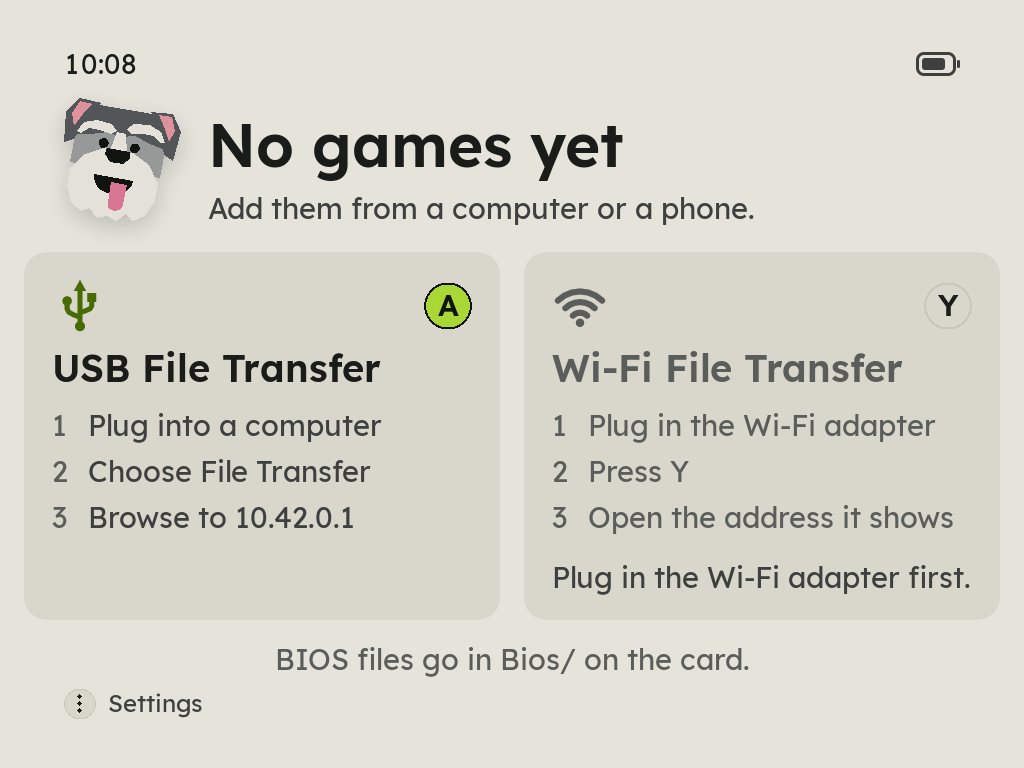
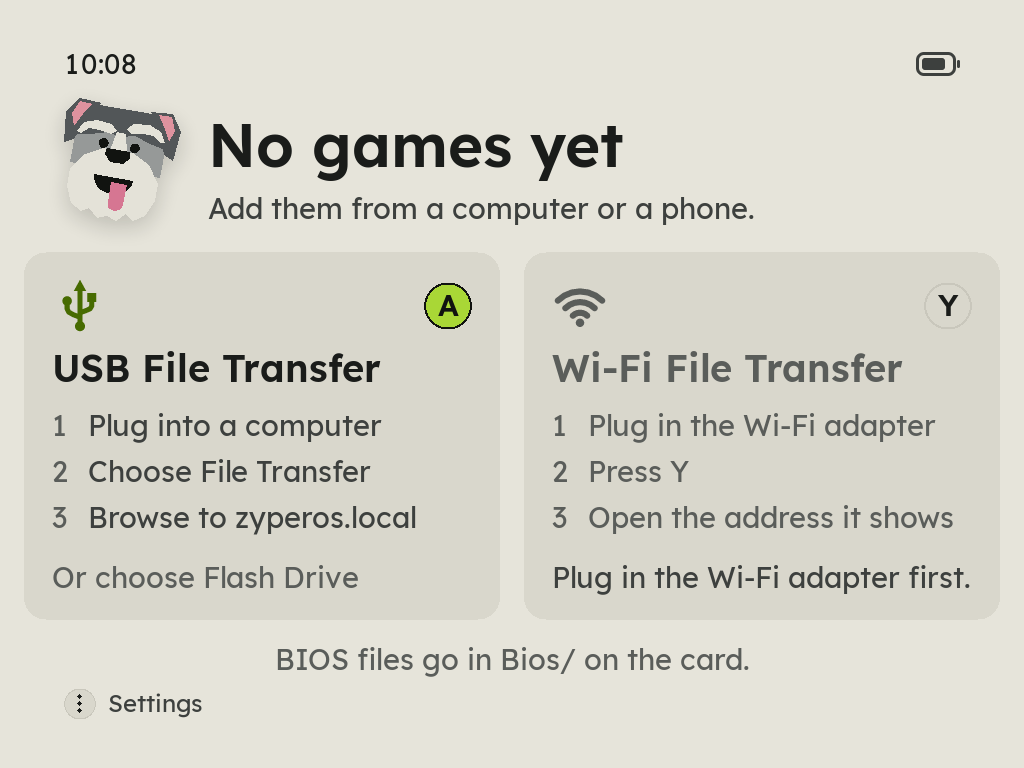
Blog: the guides for 1.0.5
- add-games: Flash Drive and a phone on the cable as ways in, Flash Drive
  among the computer's choices, EmulationStation folder names, folders of
  your own on the shelf and dragging onto a folder on the page, the eight
  folders with Menu Music, and the USB-A to USB-C cable that connects
  every time. empty.png taken again with tools/readme-shots.py on this
  main: USB File Transfer now says zyperos.local and Or choose Flash Drive.
- box-art: a phone's USB tethering in the first step and under No Wi-Fi
  adapter?, and covers an EmulationStation system left used as they are.
  The Scraper steps and scraper.png stay until the Scraper's redesign.
- gkd-pixel-2-wifi-adapter: No adapter? A phone on the cable (box art,
  achievements, System Update, PortMaster's install and the clock), and If
  Wi-Fi keeps dropping (power saving off, wifi.log in Download logs).
- retroachievements: tethering as a way online, unlocks dated when
  earned, and the list's count of waiting unlocks (cheevos-waiting.png).
- portmaster: tethering, and PortMaster won't start: Reinstall PortMaster,
  which keeps your ports.
- gkd-pixel-2-music-video: the Menu Music folder, ZyperOS Tracks, and
  Roms/BGM no longer playing.
- install-custom-firmware: the language the first start asks for, System
  Update over tethering, and zyperos-setup.txt on PX2BOOT if a first start
  stops.

Changed region(s): [[0.0625, 0.7188, 0.3438, 0.7812], [0.2188, 0.6562, 0.4062, 0.6875]]

diff --git a/site/blog/add-games-gkd-pixel-2.html b/site/blog/add-games-gkd-pixel-2.html
@@ -1,16 +1,16 @@
 title: How to Add Games to the GKD Pixel 2 (Wi-Fi or USB)
-description: Where games go on a GKD Pixel 2 card, which file types each system takes, and three ways to send them: the card reader, Wi-Fi, or the USB cable.
-summary: Folder names and file types, then three ways in: the card in a computer, Wi-Fi File Transfer and the USB cable.
+description: Where games go on a GKD Pixel 2 card, which file types each system takes, and the ways to send them: the card reader, Wi-Fi, the USB cable or a phone.
+summary: Folder names and file types, then the ways in: the card in a computer, Wi-Fi File Transfer, the USB cable, Flash Drive and a phone.
 crumb: Adding games
 topic: guide
 published: 2026-11-07
-updated: 2026-11-12
+updated: 2026-11-13
 image: portal
 image_alt: The File Transfer page on a computer, with an NES folder open and an upload going
 related: gkd-pixel-2-wifi-adapter, box-art-gkd-pixel-2, gkd-pixel-2-bios-files
 weight: 20
 ---
-<p>On ZyperOS, a game is a file in its console's folder on the microSD card. You can put it there three ways: with the card in a computer, over Wi-Fi from any browser, or over the USB cable with no Wi-Fi at all. This guide covers the folders first, then each way in.</p>
+<p>On ZyperOS, a game is a file in its console's folder on the microSD card. You can put it there with the card in a computer, over Wi-Fi from any browser, or over the USB cable with no Wi-Fi at all: from a computer's browser, with the card as a plain flash drive, or from an Android phone's own browser. This guide covers the folders first, then each way in.</p>
 
 <h2>The folders</h2>
 <p>At the first boot, ZyperOS turns the rest of the card into a partition named <strong>ZYPEROS</strong>, which a computer can read. Games go in <code>Roms/</code>, in a folder named after the console the way people say it:</p>
@@ -31,12 +31,17 @@ weight: 20
 </table>
 </div>
 <p>That is nine of the forty-four. <a href="https://github.com/tarikbc/ZyperOS#supported-systems">The README's table</a> lists every folder, its file types and the emulator that runs it. Spell the folder exactly: a game in a folder ZyperOS does not know, or a file type it does not take for that console, does not show up.</p>
+<p>Coming from Knulli, ROCKNIX, ArkOS or ROGUE OS? Their short folder names work as they are: <code>nds</code> is read as Nintendo DS, <code>psx</code> as PlayStation, <code>megadrive</code> as Genesis, and so on for every system. Copy their <code>roms</code> folders into <code>Roms/</code> unchanged, and the covers, video snaps and names their scrapers left show on the shelf too.</p>
 <p>Some systems need a BIOS file in <code>Bios/</code> as well, such as the PlayStation and the Dreamcast. <a href="/blog/gkd-pixel-2-bios-files/">The BIOS guide</a> lists each one.</p>
 <p>A console with nothing in its folder stays hidden on the home screen, so the home only shows what you can play.</p>
 
+<h3>Folders of your own</h3>
+<p>Inside a console's folder, make folders of your own, as deep as you like: <code>Roms/Game Boy Advance/Rom Hacks/Translations/</code>. The shelf shows them as you made them, folders first, each a pixel-art folder in the system's color with how many games it holds. <kbd>A</kbd> opens one and <kbd>B</kbd> goes back up. A folder that holds one game's discs is still that one game. On the File Transfer page, drag games onto a folder to move them into it.</p>
+<figure class="shot small"><img src="/img/folders.png" alt="The Game Boy Advance shelf: the folder Commercial Owned as a pixel folder with 4 on its label, 4 games under its name"><figcaption>A folder on the shelf, with how many games it holds.</figcaption></figure>
+
 <h2>A card with no games yet</h2>
 <p>A card with no games opens on <strong>No games yet</strong>, with the two ways to send them, one button each: <kbd>A</kbd> for USB File Transfer and <kbd>Y</kbd> for Wi-Fi File Transfer. The Pixel 2 has one USB-C port, and the cable and a Wi-Fi adapter both need it. So the way that cannot start now is dimmed, says why, and lights up when you plug in or unplug. When the first games arrive, the home shows them and Zyper cheers.</p>
-<figure class="shot small"><img src="/img/empty.png" alt="No games yet: USB File Transfer on A, Wi-Fi File Transfer on Y, dimmed until the Wi-Fi adapter is in"><figcaption>An empty card shows both ways in.</figcaption></figure>
+<figure class="shot small"><img src="/img/empty.png" alt="No games yet: USB File Transfer on A, with Flash Drive as the other choice, and Wi-Fi File Transfer on Y, dimmed until the Wi-Fi adapter is in"><figcaption>An empty card shows both ways in.</figcaption></figure>
 
 <h2>Way 1: the card in a computer</h2>
 <ol>
@@ -65,22 +70,36 @@ weight: 20
 <h2>Way 3: USB File Transfer</h2>
 <p>The same page, over the USB cable, with no Wi-Fi. It works with a Mac, Linux or Windows 11. Windows 10 has no driver for this kind of connection.</p>
 <ol>
-  <li>Plug the Pixel 2 into the computer. The port only charges until you say otherwise, so the handheld asks: <strong>Charge Only</strong> or <strong>File Transfer</strong>. Choose File Transfer.</li>
+  <li>Plug the Pixel 2 into the computer. The port only charges until you say otherwise, so the handheld asks: <strong>Charge Only</strong>, <strong>File Transfer</strong> or <strong>Flash Drive</strong>. Choose File Transfer.</li>
   <li>Open <code>http://zyperos.local</code> in a browser on that computer, or <code>http://10.42.0.1</code>, and type the PIN from the screen.</li>
   <li>Drag games into their console's folders.</li>
 </ol>
 <figure class="shot small"><img src="/img/usb-ask.png" alt="Computer Connected: Charge Only, File Transfer or Developer (SSH)"><figcaption>A computer on the cable gets a question first. A wall charger never does.</figcaption></figure>
 <figure class="shot small"><img src="/img/usb-steps.png" alt="USB File Transfer when the computer takes no address: Address waiting, and a hint to check Network adapters in Device Manager"><figcaption>When a step waits too long, the handheld says what to check.</figcaption></figure>
 <p>If the page does not open, look at the handheld. It shows a bar while the computer connects, then the address and the PIN, and under them where the connection is. When a step before the browser waits too long, it shows three steps, <strong>Cable</strong> (the computer took the handheld and opened its network), <strong>Address</strong> (the computer took <code>10.42.0.2</code>) and <strong>Browser</strong>, with a hint under the one that waits: try another cable or port, or check Device Manager on Windows. If the browser still does not get there, turn off a VPN or proxy that sends the address somewhere else.</p>
+<p class="note">The cable that connects every time is a USB-A to USB-C cable, with USB-A at the computer. On a USB-C to USB-C cable, the two ports settle which side gives power at each plug, and some computers' USB-C ports never connect that way. If the handheld says your computer didn't connect, unplug the cable and plug it back in, or use that cable; a computer with only USB-C ports can use it through a USB-C to USB-A adapter or a hub.</p>
 <p>While USB File Transfer is open, the computer can also open a shell on the handheld with <code>ssh root@10.42.0.1</code>, the PIN as the password. To copy with <code>scp</code>, add its <code>-O</code> flag, because the handheld has no SFTP server: <code>scp -O game.zip root@10.42.0.1:/roms/SNES/</code>.</p>
 
+<h2>Way 4: Flash Drive</h2>
+<p>No browser and no driver: choose <strong>Flash Drive</strong> when the handheld asks about the computer, and the card becomes a plain flash drive that any computer opens, Windows 10 included. ZyperOS steps aside, and its screen shows how much the computer copies to the card and reads from it. Copy games into <code>Roms/</code> as you would with the card in a reader, then eject the drive on the computer, or pull the cable. The card is checked if it needs it, and ZyperOS comes back where it was.</p>
+
+<h2>Way 5: a phone on the cable</h2>
+<p>On the Pixel 2, an Android phone with USB tethering opens USB File Transfer over a USB-C to USB-C cable, with no adapter and no Wi-Fi:</p>
+<ol>
+  <li>Plug the phone into the handheld. When it asks <strong>What did you plug in?</strong>, choose <strong>Phone</strong>. The handheld powers the phone and asks you to turn on USB tethering.</li>
+  <li>On the phone, turn on <strong>USB tethering</strong> (Settings, then Hotspot and tethering).</li>
+  <li>USB File Transfer opens by itself, with the address the phone gave the handheld and a PIN. Open that address in the phone's browser, and type the PIN.</li>
+</ol>
+<p>While tethering is on, the handheld also has the phone's internet, for box art, achievements and System Update (<a href="/blog/gkd-pixel-2-wifi-adapter/#no-adapter-a-phone-on-the-cable">more on that</a>). An iPhone shares its network over USB only with a computer it trusts, and some Android devices have no USB tethering. With those, use Wi-Fi File Transfer, or Flash Drive with a USB-C to USB-A adapter on the phone and a USB-A to USB-C cable.</p>
+
 <h2>The File Transfer page</h2>
-<p>Wi-Fi File Transfer, the handheld's own network and USB File Transfer all open the same page. It shows the card's seven folders: ROMs, Music, Audiobooks, Videos, BIOS, Saves and Save States, each console's folder with its own pixel art.</p>
+<p>Wi-Fi File Transfer, the handheld's own network and USB File Transfer all open the same page. It shows the card's eight folders: ROMs, Music, Audiobooks, Videos, Menu Music, BIOS, Saves and Save States, each console's folder with its own pixel art.</p>
 <figure class="shot browser"><img src="/img/portal.png" alt="The File Transfer page on a computer: the card's folders down the left with their pixel art, an NES folder open, and an upload under the folders with the time left"><figcaption>On a computer: the folders on the left, an upload under them.</figcaption></figure>
 <ul>
   <li><strong>Upload</strong> by dropping files anywhere on the page, or onto a folder's row. A dropped folder keeps the folders inside it.</li>
   <li><strong>Free space</strong> shows under the folders. Files that do not fit are caught before anything is sent.</li>
-  <li><strong>Each file has a ⋯ menu</strong> for Download, Rename and Delete. Delete always asks first.</li>
+  <li><strong>Drag to move</strong>: drag a file or a folder onto a folder's row and it moves there on the card. On a phone, hold a row still for a moment to lift it.</li>
+  <li><strong>Each file has a ⋯ menu</strong> for Download, Rename and Delete. Delete always asks first. <strong>New folder</strong> makes one.</li>
   <li><strong>On a phone</strong> the folders are a row of chips and Upload is a button under your thumb.</li>
 </ul>
 
@@ -89,13 +108,13 @@ weight: 20
 
 <h2>My games do not show up</h2>
 <ul>
-  <li>Check the folder name against <a href="https://github.com/tarikbc/ZyperOS#supported-systems">the table</a>, spelled exactly, and the file type.</li>
+  <li>Check the folder name against <a href="https://github.com/tarikbc/ZyperOS#supported-systems">the table</a>, spelled exactly, or an EmulationStation name such as <code>gba</code>, and the file type.</li>
   <li>Games sent with File Transfer show up when you leave its screen. Games copied any other way while the handheld is on show up after <strong>Rescan Folder</strong> in that console's menu, or after a restart.</li>
   <li>Arcade and Neo Geo games are ROM sets: keep each <code>.zip</code> whole and named the way FinalBurn Neo names it, and put <code>neogeo.zip</code> in <code>Bios/</code> for Neo Geo games.</li>
 </ul>
 
 <h2>Sources</h2>
 <ol class="sources">
-  <li><a href="https://github.com/tarikbc/ZyperOS#supported-systems">ZyperOS README, Supported systems</a> and <a href="https://github.com/tarikbc/ZyperOS#install">Install</a>: folders, file types, Wi-Fi and USB File Transfer, the File Transfer page, the FAQ.</li>
+  <li><a href="https://github.com/tarikbc/ZyperOS#supported-systems">ZyperOS README, Supported systems</a>, <a href="https://github.com/tarikbc/ZyperOS#coming-from-emulationstation">Coming from EmulationStation</a> and <a href="https://github.com/tarikbc/ZyperOS#install">Install</a>: folders, file types, Wi-Fi and USB File Transfer, Flash Drive, a phone on the cable, the File Transfer page, the FAQ.</li>
   <li><a href="https://github.com/tarikbc/ZyperOS/blob/main/docs/guide.md#file-transfer">The ZyperOS user guide, File transfer</a>: the PIN, SSH over the cable, plugging into a computer.</li>
 </ol>

diff --git a/site/blog/gkd-pixel-2-wifi-adapter.html b/site/blog/gkd-pixel-2-wifi-adapter.html
@@ -4,7 +4,7 @@ summary: The Pixel 2 has no Wi-Fi. A Realtek USB adapter in the USB-C port adds 
 crumb: Wi-Fi adapter
 topic: guide
 published: 2026-11-07
-updated: 2026-11-07
+updated: 2026-11-13
 image: hotspot
 image_alt: Wi-Fi File Transfer as the handheld's own network: a QR code, the network's name, its password and the PIN
 related: add-games-gkd-pixel-2, box-art-gkd-pixel-2, retroachievements-gkd-pixel-2
@@ -17,6 +17,7 @@ weight: 25
   <li><strong>Get a TP-Link TL-WN725N</strong>, hardware version 2 or 3. Its chip is the Realtek RTL8188EUS. It is the adapter ZyperOS is tested with, and the only kind that can also make the handheld's own network.</li>
   <li><strong>Add a small USB-A to USB-C adapter</strong>, since the TL-WN725N has a USB-A plug and the Pixel 2 has a USB-C port.</li>
   <li><strong>It is 2.4 GHz only</strong>, 802.11n up to 150 Mbps. That is plenty for covers, achievements and moving games.</li>
+  <li><strong>No adapter?</strong> An Android phone with USB tethering, on the USB cable, gives the handheld the phone's internet instead (<a href="#no-adapter-a-phone-on-the-cable">below</a>).</li>
 </ul>
 
 <h2>Why the chip matters</h2>
@@ -41,7 +42,7 @@ weight: 25
   <li>ZyperOS loads its driver when it is plugged in. The Wi-Fi rows appear in MENU: Wi-Fi, Achievements and Wi-Fi File Transfer.</li>
   <li>Open <strong>MENU &gt; Wi-Fi</strong>, pick your network and type its password. The handheld remembers it, on the card, and joins it again next time.</li>
 </ol>
-<p>Each time Wi-Fi connects, ZyperOS sets the clock from the network. Without an adapter, set the time once in <strong>MENU &gt; Date &amp; Time</strong>.</p>
+<p>Each time Wi-Fi connects, ZyperOS sets the clock from the network, and a phone's USB tethering sets it too. With neither, set the time once in <strong>MENU &gt; Date &amp; Time</strong>.</p>
 
 <h2>One port, two jobs</h2>
 <p>The Pixel 2 has one USB-C port, and it is also where it charges and where a computer connects. So while the Wi-Fi adapter is in, the port is not free for a charger or a computer, and USB File Transfer waits for the cable. ZyperOS shows this plainly: on a card with no games, the way that cannot start now is dimmed and says why, and it lights up when you plug in or unplug.</p>
@@ -55,6 +56,18 @@ weight: 25
   <li><strong>Album Art</strong> for MP4, and the clock set from the network.</li>
 </ul>
 
+<h2>No adapter? A phone on the cable</h2>
+<p>An Android phone with USB tethering gives the handheld the phone's internet over a USB-C to USB-C cable, with no adapter at all:</p>
+<ol>
+  <li>Plug the phone into the Pixel 2. When it asks <strong>What did you plug in?</strong>, choose <strong>Phone</strong>. The handheld powers the phone and asks you to turn on USB tethering.</li>
+  <li>On the phone, turn on <strong>USB tethering</strong> (Settings, then Hotspot and tethering). USB File Transfer opens by itself, for the phone's own browser.</li>
+</ol>
+<p>While tethering is on, the handheld uses the phone's internet as it would Wi-Fi: <a href="/blog/box-art-gkd-pixel-2/">box art</a>, <a href="/blog/retroachievements-gkd-pixel-2/">achievements</a>, System Update and <a href="/blog/portmaster-gkd-pixel-2/">PortMaster's install</a> work over it, and it sets the clock. Close File Transfer with <kbd>B</kbd> and the phone stays connected. The phone may be on mobile data, so nothing large starts by itself: a System Update download cut short waits for you to press <kbd>A</kbd>.</p>
+<p>An iPhone shares its network over USB only with a computer it trusts, which the handheld can't be, and some Android devices have no USB tethering at all. With those, the handheld needs the Wi-Fi adapter to get online.</p>
+
+<h2>If Wi-Fi keeps dropping</h2>
+<p>The TL-WN725N's chip is known to drop off some home routers again and again while its power saving is on, so ZyperOS turns its power saving off whenever it is on a network. If a network still drops, the handheld writes down why: each join and each drop, with the reason the network or the adapter gave, goes in <code>wifi.log</code>. On the File Transfer page, <strong>Download logs</strong> (under the folders, behind the ⋯ on a phone) packs it with the other logs, ready to send with a bug report. Network names are masked in it.</p>
+
 <h2>The handheld's own network</h2>
 <p>With the TL-WN725N in and no network joined, <strong>MENU &gt; Wi-Fi File Transfer</strong> makes the handheld a Wi-Fi network for as long as its screen is open. It shows a QR code, the network's name and password, and the PIN. Your phone joins by the code, and the transfer page opens by itself.</p>
 <figure class="shot small"><img src="/img/hotspot.png" alt="Wi-Fi File Transfer as the handheld's own network: a QR code, the network's name ZyperOS-7A2B, its password and the PIN"><figcaption>No network around: the handheld makes its own.</figcaption></figure>
@@ -62,7 +75,7 @@ weight: 25
 
 <h2>Sources</h2>
 <ol class="sources">
-  <li><a href="https://github.com/tarikbc/ZyperOS#install">ZyperOS README, Install</a> and <a href="https://github.com/tarikbc/ZyperOS/blob/main/docs/guide.md#wi-fi-file-transfer-with-no-network">the user guide, Wi-Fi File Transfer with no network</a>: the adapter, the shared port, the hotspot.</li>
+  <li><a href="https://github.com/tarikbc/ZyperOS#install">ZyperOS README, Install</a>, <a href="https://github.com/tarikbc/ZyperOS#from-a-phone-on-the-usb-cable">From a phone on the USB cable</a> and <a href="https://github.com/tarikbc/ZyperOS#faq">the FAQ on sending the logs</a>, and <a href="https://github.com/tarikbc/ZyperOS/blob/main/docs/guide.md#wi-fi-file-transfer-with-no-network">the user guide, Wi-Fi File Transfer with no network</a>: the adapter, the shared port, the hotspot.</li>
   <li>plastron at <a href="https://github.com/tarikbc/ZyperOS/tree/04f83e1/plastron">04f83e1</a>: <code>buildroot/board/px2/linux.config</code> (rtl8xxxu on, rtw88 off), <code>buildroot/board/zyperos/rootfs-overlay/etc/modprobe.d/rtl8188eu.conf</code> (RTL8188EU adapters to Realtek's 8188eu, for the access point).</li>
   <li>Linux kernel, <a href="https://github.com/torvalds/linux/blob/d48723711bae9b8cdc56719c448ba42fef28cbee/drivers/net/wireless/realtek/rtl8xxxu/Kconfig">rtl8xxxu's Kconfig</a> and <a href="https://github.com/torvalds/linux/blob/d48723711bae9b8cdc56719c448ba42fef28cbee/drivers/net/wireless/realtek/rtl8xxxu/core.c#L8015-L8106">its tested device table</a> and <a href="https://github.com/torvalds/linux/blob/d48723711bae9b8cdc56719c448ba42fef28cbee/drivers/net/wireless/realtek/rtw88/Kconfig">rtw88's Kconfig</a>: which chips each driver covers.</li>
   <li>TP-Link: <a href="https://www.tp-link.com/us/home-networking/adapter/tl-wn725n/">the TL-WN725N's specifications</a> (2.4 GHz, up to 150 Mbps) and <a href="https://www.tp-link.com/us/support/download/tl-wn725n/">its support page</a> (hardware versions and their drivers), read 7 November 2026.</li>

diff --git a/site/blog/install-custom-firmware-gkd-pixel-2.html b/site/blog/install-custom-firmware-gkd-pixel-2.html
@@ -4,7 +4,7 @@ summary: Back up the stock card, write an image to a microSD card, and the first
 crumb: Installing custom firmware
 topic: guide
 published: 2026-11-07
-updated: 2026-11-07
+updated: 2026-11-13
 image: tour-home
 image_alt: ZyperOS's first start asks for the home screen: Spotlight or Gallery
 related: best-custom-firmware-gkd-pixel-2, add-games-gkd-pixel-2, gkd-pixel-2-wifi-adapter
@@ -54,7 +54,7 @@ weight: 10
 <table>
   <thead><tr><th scope="col">System</th><th scope="col">On the first boot</th><th scope="col">The games space</th></tr></thead>
   <tbody>
-    <tr><th scope="row" class="us">ZyperOS</th><td class="us">Turns the rest of the card into ZYPEROS in about a minute, then starts the tutorial</td><td class="us">exFAT: a Mac or PC reads it</td></tr>
+    <tr><th scope="row" class="us">ZyperOS</th><td class="us">Turns the rest of the card into ZYPEROS in about a minute, then asks for your language and starts the tutorial</td><td class="us">exFAT: a Mac or PC reads it</td></tr>
     <tr><th scope="row">ROCKNIX</th><td>Runs its install process, then reboots</td><td>ext4 over the whole card: Windows and macOS do not see it</td></tr>
     <tr><th scope="row">TortOS</th><td>Turns the rest of the card into TORTOS</td><td>exFAT: a Mac or PC reads it</td></tr>
     <tr><th scope="row">plumOS Pixel2</th><td>Makes its PLUMOS_USER volume and may restart once. Do not cut the power, and add games only after it</td><td>FAT32: a Mac or PC reads it</td></tr>
@@ -71,11 +71,12 @@ weight: 10
 <ol>
   <li>Download ZyperOS Installer for your computer from <a href="https://github.com/tarikbc/ZyperOS/releases/latest">the latest release</a>.</li>
   <li>Put the microSD card in the computer, then pick the GKD Pixel 2, the latest release and the card. Choose <strong>Fresh install</strong>, which erases the card. Or write the card image with any program that writes disk images, like Raspberry Pi Imager.</li>
-  <li>Put the card in the Pixel 2 and turn it on. The first start sets the card up in about a minute. Then Zyper teaches the buttons and asks four things: the theme, the home screen, the button sounds and the menu music.</li>
-  <li>Set your time zone in <strong>MENU &gt; Date &amp; Time</strong>. Without Wi-Fi, set the time there too, and it keeps it.</li>
+  <li>Put the card in the Pixel 2 and turn it on. The first start sets the card up in about a minute, then asks for your language: Zyper says hello in each of the eight until you pick yours. Then he teaches the buttons and asks four things: the theme, the home screen, the button sounds and the menu music.</li>
+  <li>Set your time zone in <strong>MENU &gt; Date &amp; Time</strong>. Wi-Fi, or an Android phone's USB tethering, sets the time when it connects; without either, set the time there too, and it keeps it.</li>
 </ol>
+<p class="note">If the first start ever stops partway, the card has a record of what it did: put it in a computer and open <code>zyperos-setup.txt</code> on its PX2BOOT drive. After the handheld restarts by itself, the system's own report of what went wrong is there too. Send it to me in <a href="https://github.com/tarikbc/ZyperOS/issues">an issue</a>.</p>
 <figure class="shot small"><img src="/img/tour-theme.png" alt="ZyperOS's first start asks: Light or dark? The home screen shown in both themes"><figcaption>The first start asks for the theme, the home screen, the sounds and the music.</figcaption></figure>
-<p>ZyperOS Installer's <strong>Update</strong> puts a new version on a card that already has ZyperOS and keeps its games, music and saves. On the handheld, System Update brings new versions over Wi-Fi, or over the USB cable from the File Transfer page. To build the card image yourself instead, <a href="https://github.com/tarikbc/ZyperOS/blob/main/docs/building.md">docs/building.md</a> explains how.</p>
+<p>ZyperOS Installer's <strong>Update</strong> puts a new version on a card that already has ZyperOS and keeps its games, music and saves. On the handheld, System Update brings new versions over Wi-Fi or an Android phone's USB tethering, or over the USB cable from the File Transfer page. To build the card image yourself instead, <a href="https://github.com/tarikbc/ZyperOS/blob/main/docs/building.md">docs/building.md</a> explains how.</p>
 
 <h2>Going back</h2>
 <p>Turn the Pixel 2 off and put another card in. The handheld starts whatever system is on the card, so the stock card brings the stock firmware back, unchanged. Everything a system keeps, Wi-Fi passwords included, is on its own card: wipe a card before you give it away.</p>

diff --git a/site/blog/retroachievements-gkd-pixel-2.html b/site/blog/retroachievements-gkd-pixel-2.html
@@ -4,7 +4,7 @@ summary: Sign in on the handheld, play offline after the first start, and see ba
 crumb: RetroAchievements
 topic: guide
 published: 2026-11-07
-updated: 2026-11-07
+updated: 2026-11-13
 image: cheevos
 image_alt: A game's achievements list in ZyperOS, with badges, points and a progress count
 related: gkd-pixel-2-wifi-adapter, box-art-gkd-pixel-2, best-custom-firmware-gkd-pixel-2
@@ -15,21 +15,23 @@ weight: 40
 <h2>What you need</h2>
 <ul>
   <li><strong>A free RetroAchievements account</strong>, made at <a href="https://retroachievements.org">retroachievements.org</a>.</li>
-  <li><strong>A USB Wi-Fi adapter</strong> for the sign-in and for each game's first start. The Pixel 2 has no Wi-Fi of its own; <a href="/blog/gkd-pixel-2-wifi-adapter/">the Wi-Fi guide</a> says which adapters work.</li>
+  <li><strong>A way online</strong> for the sign-in and for each game's first start: a USB Wi-Fi adapter, or an Android phone's USB tethering on the cable. The Pixel 2 has no Wi-Fi of its own; <a href="/blog/gkd-pixel-2-wifi-adapter/">the Wi-Fi guide</a> says which adapters work, and how to use a phone instead.</li>
   <li><strong>A game RetroAchievements knows.</strong> It identifies a game by a checksum of the ROM, so a clean dump of a common release is what it has sets for. A hack or a fan translation often has no set.</li>
 </ul>
 
 <h2>Sign in</h2>
 <ol>
-  <li>Plug in the Wi-Fi adapter and join a network in <strong>MENU &gt; Wi-Fi</strong>.</li>
+  <li>Plug in the Wi-Fi adapter and join a network in <strong>MENU &gt; Wi-Fi</strong>. Or plug in an Android phone, choose <strong>Phone</strong> and turn on its USB tethering.</li>
   <li>Open <strong>MENU &gt; Achievements</strong>. The row says <code>sign in</code>.</li>
   <li>Type your user name and password with the on-screen keyboard.</li>
 </ol>
-<p>The row then shows your account. The Achievements row only appears while the Wi-Fi adapter is in, since signing in needs the network.</p>
+<p>The row then shows your account. The Achievements row only appears while the Wi-Fi adapter is in or a phone's USB tethering is on, since signing in needs the network.</p>
 
 <h2>Play</h2>
 <p>Start a game as usual. The first time a game starts, the handheld needs Wi-Fi to identify it and download its achievements. ZyperOS keeps them on the card, beside the box art, so from then on the game has its achievements with or without Wi-Fi.</p>
-<p>What you unlock without Wi-Fi waits on the card, and reaches your account the next time the handheld connects. If the account already has an achievement, that is no error: ZyperOS counts it as settled.</p>
+<p>What you unlock without Wi-Fi pops up at once, as usual, and waits on the card. The next time the handheld is online, on the shelf, the waiting unlocks go to your account by themselves, and Zyper says how many went. Each one is dated when you earned it, not when it was sent, up to 14 days back, the most RetroAchievements takes. If the account already has an achievement, that is no error: ZyperOS counts it as settled.</p>
+<p>While some wait, the game's list says how many under its name, and an achievement opened with <kbd>A</kbd> says it is earned and not sent yet.</p>
+<figure class="shot"><img src="/img/cheevos-waiting.png" alt="A game's achievements list, its heading saying 3 / 36 and 2 waiting to send: two achievements earned offline, not sent yet"><figcaption>Earned offline: the list says how many wait to be sent.</figcaption></figure>
 <p>ZyperOS sends unlocks as softcore achievements. It has no hardcore mode.</p>
 
 <h2>Badges, pop-ups and the list</h2>
@@ -46,7 +48,7 @@ weight: 40
 <h2>If an achievement does not unlock</h2>
 <ul>
   <li><strong>Check the sign-in</strong> in MENU &gt; Achievements.</li>
-  <li><strong>Check the first start had Wi-Fi.</strong> Without it, ZyperOS cannot identify the game. Start it once with the adapter in.</li>
+  <li><strong>Check the first start was online.</strong> Without it, ZyperOS cannot identify the game, and its Achievements row says <code>not checked yet</code>. Start it once with the adapter in, or with a phone's USB tethering on.</li>
   <li><strong>Check the dump.</strong> A ROM with a different checksum is a game RetroAchievements has never seen. A zip is checked on its largest file, which is the one ZyperOS runs.</li>
 </ul>
 

diff --git a/site/blog/box-art-gkd-pixel-2.html b/site/blog/box-art-gkd-pixel-2.html
@@ -4,7 +4,7 @@ summary: Covers from libretro, ScreenScraper and SteamGridDB, fetched on the han
 crumb: Box art and video previews
 topic: guide
 published: 2026-11-07
-updated: 2026-11-07
+updated: 2026-11-13
 image: scraper
 image_alt: MENU > Scraper in ZyperOS, with Fetch Missing Art, Video Snaps and the covers each source found
 related: retroachievements-gkd-pixel-2, add-games-gkd-pixel-2, gkd-pixel-2-wifi-adapter
@@ -14,7 +14,7 @@ weight: 30
 
 <h2>The short answer</h2>
 <ol>
-  <li>Plug in a USB Wi-Fi adapter and join a network.</li>
+  <li>Get the handheld online: plug in a USB Wi-Fi adapter and join a network, or plug in an Android phone, choose <strong>Phone</strong> and turn on its USB tethering.</li>
   <li>Open <strong>MENU &gt; Scraper</strong> and choose <strong>Fetch Missing Art</strong>.</li>
   <li>Wait for the count to finish. <kbd>B</kbd> stops it at any time. The shelf has the covers when you leave the screen.</li>
 </ol>
@@ -65,10 +65,13 @@ weight: 30
 
 <h2>Covers that went missing after a transfer</h2>
 <p>A console's folder sent with the File Transfer page arrives without its covers, because a browser leaves the hidden <code>.media</code> folder behind. Send the covers on their own: drop the PNG files into the console's <code>.media</code> folder on the page, or drag the <code>.media</code> folder itself onto the console's folder. On a Mac, Cmd-Shift-. shows hidden folders in Finder.</p>
-<p>No Wi-Fi adapter? Over the USB cable, the File Transfer page's Settings can fetch missing box art with the computer's own internet, and the handheld matches each cover to its game.</p>
+<p>No Wi-Fi adapter? Plug in an Android phone, choose <strong>Phone</strong> and turn on its USB tethering: MENU &gt; Scraper, Box Art and a game's Cover and Video then use the phone's internet, as over Wi-Fi (<a href="/blog/gkd-pixel-2-wifi-adapter/#no-adapter-a-phone-on-the-cable">a phone on the cable</a>). Or, over the USB cable from a computer, the File Transfer page's Settings can fetch missing box art with the computer's own internet, and the handheld matches each cover to its game.</p>
+
+<h2>Covers from an EmulationStation system</h2>
+<p>Coming from Knulli, ROCKNIX, ArkOS or ROGUE OS? Copy their <code>roms</code> folders into <code>Roms/</code> as they are. The covers, video snaps, names and details their scrapers left (<code>gamelist.xml</code>, <code>images/</code>, <code>videos/</code>, <code>media/</code>) show on the shelf as they are, with no new scrape. A cover ZyperOS fetched or you picked comes first, and Fetch Missing Art only fetches for games with no cover at all.</p>
 
 <h2>Sources</h2>
 <ol class="sources">
-  <li><a href="https://github.com/tarikbc/ZyperOS#faq">ZyperOS README, FAQ: A game has no box art</a>, and <a href="https://github.com/tarikbc/ZyperOS#the-file-transfer-page">The File Transfer page</a>.</li>
+  <li><a href="https://github.com/tarikbc/ZyperOS#faq">ZyperOS README, FAQ: A game has no box art</a>, <a href="https://github.com/tarikbc/ZyperOS#the-file-transfer-page">The File Transfer page</a>, <a href="https://github.com/tarikbc/ZyperOS#from-a-phone-on-the-usb-cable">From a phone on the USB cable</a> and <a href="https://github.com/tarikbc/ZyperOS#coming-from-emulationstation">Coming from EmulationStation</a>.</li>
   <li><a href="https://github.com/tarikbc/ZyperOS/blob/main/docs/guide.md#scraper">The ZyperOS user guide, Scraper</a> and <a href="https://github.com/tarikbc/ZyperOS/blob/main/docs/guide.md#the-shelf">The shelf</a>: the sources' order, video snaps, checksum matching, covers added by hand.</li>
 </ol>

diff --git a/site/blog/gkd-pixel-2-music-video.html b/site/blog/gkd-pixel-2-music-video.html
@@ -4,7 +4,7 @@ summary: Which video formats play smoothly on its four cores, and how to add alb
 crumb: Music and video
 topic: guide
 published: 2026-11-07
-updated: 2026-11-09
+updated: 2026-11-13
 image: mp4
 image_alt: MP4's shelf of album covers in ZyperOS
 related: add-games-gkd-pixel-2, gkd-pixel-2-battery-charge-limit, gkd-pixel-2-bios-files
@@ -67,6 +67,11 @@ weight: 75
 <p>The Pixel 2 has one speaker, so out of it the sound is mono, both channels mixed, and headphones get stereo. <strong>MENU &gt; Audio Channels</strong> changes that.</p>
 <p>On a video, <kbd>Y</kbd> switches between full screen, where the controls show only when you press a button, and a view with the controls always on screen. Every video and every book remembers where you stopped, even through a power-off.</p>
 
+<h2>Music behind the menus</h2>
+<p>Besides MP4, ZyperOS plays music behind the shelf and the menus, never over a game: ten free 8-bit tracks, and your own. Yours go in <code>Menu Music</code>, a folder of its own at the top of the card, beside <code>Music</code> and <code>Videos</code>. Copy MP3 or Ogg files there with the card in a computer, in Flash Drive, or on the File Transfer page; folders inside it play too, two deep.</p>
+<p><strong>MENU &gt; Menu Music</strong> turns the music on or off, sets its volume, and shuffles or plays one track over and over. Once you have songs of your own, its <strong>ZyperOS Tracks</strong> row turns ZyperOS's ten off, so only yours play. On the shelf, <kbd>L2</kbd> and <kbd>R2</kbd> go to the song before or the next, and Zyper pops up with each new song's name.</p>
+<p class="note">Coming from ROGUE OS, or from ZyperOS before 1.0.5? Songs in <code>Roms/BGM</code> no longer play. Move them into <code>Menu Music</code>. ZyperOS leaves <code>Roms/BGM</code> as it is, and deletes nothing in it.</p>
+
 <h2>Lock the screen for a pocket</h2>
 <p>Press <kbd>X</kbd>, or <kbd>SELECT</kbd> and <kbd>START</kbd> together, on any MP4 screen while something plays. With music or a book the screen goes dark, and every button is ignored except the volume keys. On a book, that took about 6 hours of listening to 10. A video stays in sight. Any other button shows the lock screen for a moment, with how to unlock it: hold <kbd>SELECT</kbd> and <kbd>START</kbd> together for two seconds.</p>
 
@@ -79,5 +84,5 @@ weight: 75
 <h2>Sources</h2>
 <ol class="sources">
   <li><a href="https://github.com/tarikbc/ZyperOS#faq">ZyperOS README, FAQ</a>: adding music, audiobooks and videos, the video formats on the Pixel 2, Bluetooth.</li>
-  <li><a href="https://github.com/tarikbc/ZyperOS/blob/main/docs/guide.md#mp4">The ZyperOS user guide, MP4</a> and <a href="https://github.com/tarikbc/ZyperOS/blob/main/docs/guide.md#audio">Audio</a>: the shelf, Now Playing, Lock Screen, Album Art, where sound goes.</li>
+  <li><a href="https://github.com/tarikbc/ZyperOS/blob/main/docs/guide.md#mp4">The ZyperOS user guide, MP4</a> and <a href="https://github.com/tarikbc/ZyperOS/blob/main/docs/guide.md#audio">Audio</a>: the shelf, Now Playing, Lock Screen, Album Art, where sound goes; <a href="https://github.com/tarikbc/ZyperOS/blob/main/docs/guide.md#menu-music">Menu music</a>: the Menu Music folder, ZyperOS Tracks, Roms/BGM.</li>
 </ol>

diff --git a/site/blog/portmaster-gkd-pixel-2.html b/site/blog/portmaster-gkd-pixel-2.html
@@ -4,7 +4,7 @@ summary: Install the official PortMaster from the Ports shelf with one press, ad
 crumb: PortMaster
 topic: guide
 published: 2026-11-07
-updated: 2026-11-08
+updated: 2026-11-13
 image: ports
 image_alt: The ZyperOS Ports shelf with PortMaster's entry, not installed yet, and A to install it
 related: add-games-gkd-pixel-2, nintendo-ds-gkd-pixel-2, best-custom-firmware-gkd-pixel-2
@@ -20,7 +20,7 @@ weight: 50
 <p>A port is a script, <code>Something.sh</code>, with the port's folder beside it, and PortMaster keeps its own folder, <code>PortMaster/</code>, next to them, all in <code>Roms/Ports</code>. The Ports shelf lists each script there. Until PortMaster is on the card, the shelf holds its entry, which says <kbd>A</kbd> Install.</p>
 <img src="/img/ports.png" alt="The Ports shelf with PortMaster's entry: Not installed, and A Install">
 <ol>
-  <li>Connect to Wi-Fi. The Pixel 2 has no radio of its own, so this needs a USB Wi-Fi adapter (see <a href="/blog/gkd-pixel-2-wifi-adapter/">the Wi-Fi guide</a>).</li>
+  <li>Get the handheld online. The Pixel 2 has no radio of its own, so this needs a USB Wi-Fi adapter, or an Android phone on the cable with its USB tethering on (see <a href="/blog/gkd-pixel-2-wifi-adapter/">the Wi-Fi guide</a>). Over a phone, the install works as it does over Wi-Fi.</li>
   <li>Open the Ports shelf, press <kbd>A</kbd> on PortMaster, then <kbd>A</kbd> Install. ZyperOS downloads PortMaster's latest stable release from its GitHub, about 24 MB, checks it against the size and checksums PortMaster and GitHub publish, and unpacks it into <code>Roms/Ports</code>. Nothing goes in place until all of it checks out.</li>
   <li>Press <kbd>A</kbd> Open PortMaster. Its first start unpacks its own files and downloads its catalog of ports, which takes a few minutes.</li>
   <li>Pick the ports you want, and add each one's game files where its instructions say, if it needs them. When you leave PortMaster, they are on the Ports shelf.</li>
@@ -52,6 +52,10 @@ weight: 50
   <li><strong><kbd>POWER</kbd> ends the port</strong> and then turns the handheld off, as does a battery at 2%. The port is asked to close first, so a game that saves on exit gets the chance.</li>
 </ul>
 <p>When the port ends, ZyperOS comes back.</p>
+
+<h2>PortMaster won't start</h2>
+<p>If PortMaster closes with an error, ZyperOS says so when it comes back, with the line of PortMaster's log that tells what went wrong, and offers <strong>Reinstall</strong>. <strong>Reinstall PortMaster</strong> is also on PortMaster's details: press <kbd>X</kbd> on its entry on the Ports shelf. It puts a fresh copy of PortMaster's latest stable release on the card. Your ports, their saves, the runtimes and the themes you downloaded stay; only PortMaster's own settings start over.</p>
+<p>A common cause is the handheld turning off while PortMaster was writing one of its own files, which left it cut off. Before each start, ZyperOS now removes a PortMaster list or settings file that a cut-off write left half-written, so PortMaster makes it again instead of closing as it starts.</p>
 
 <h2>Sources</h2>
 <ol class="sources">
